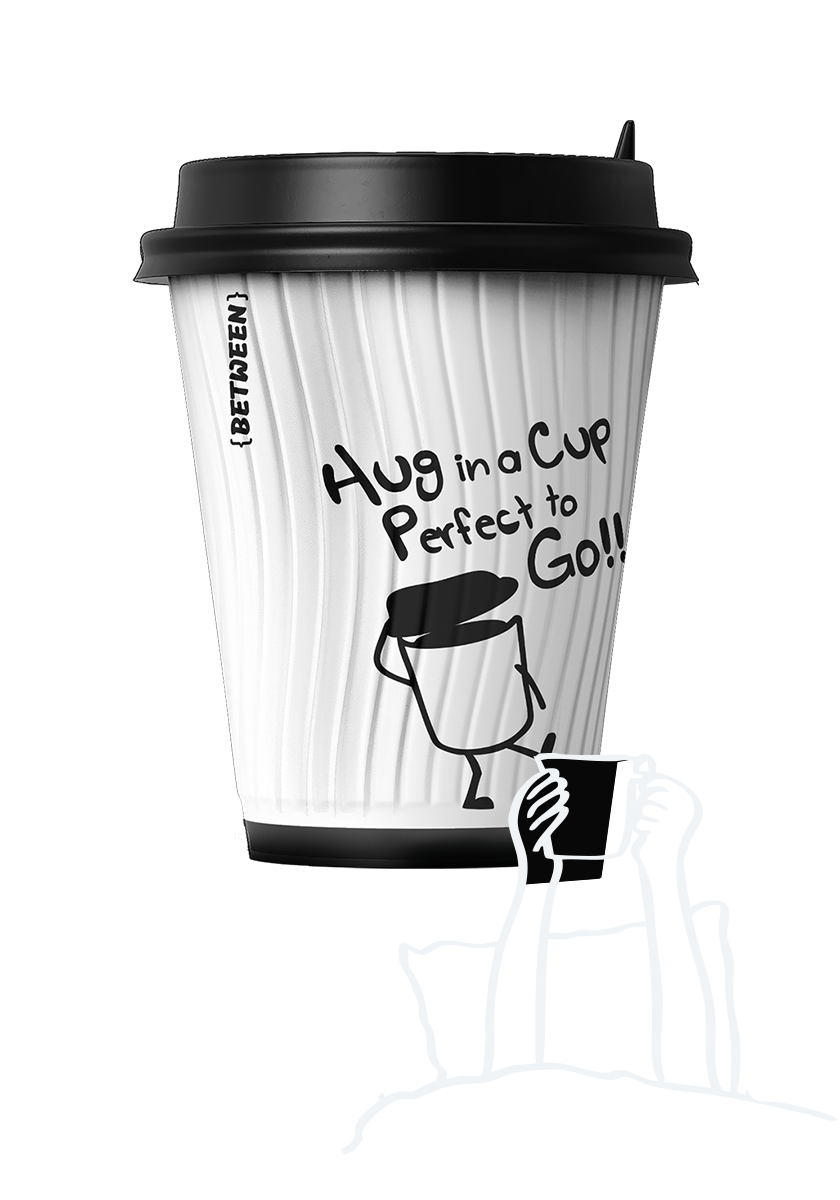
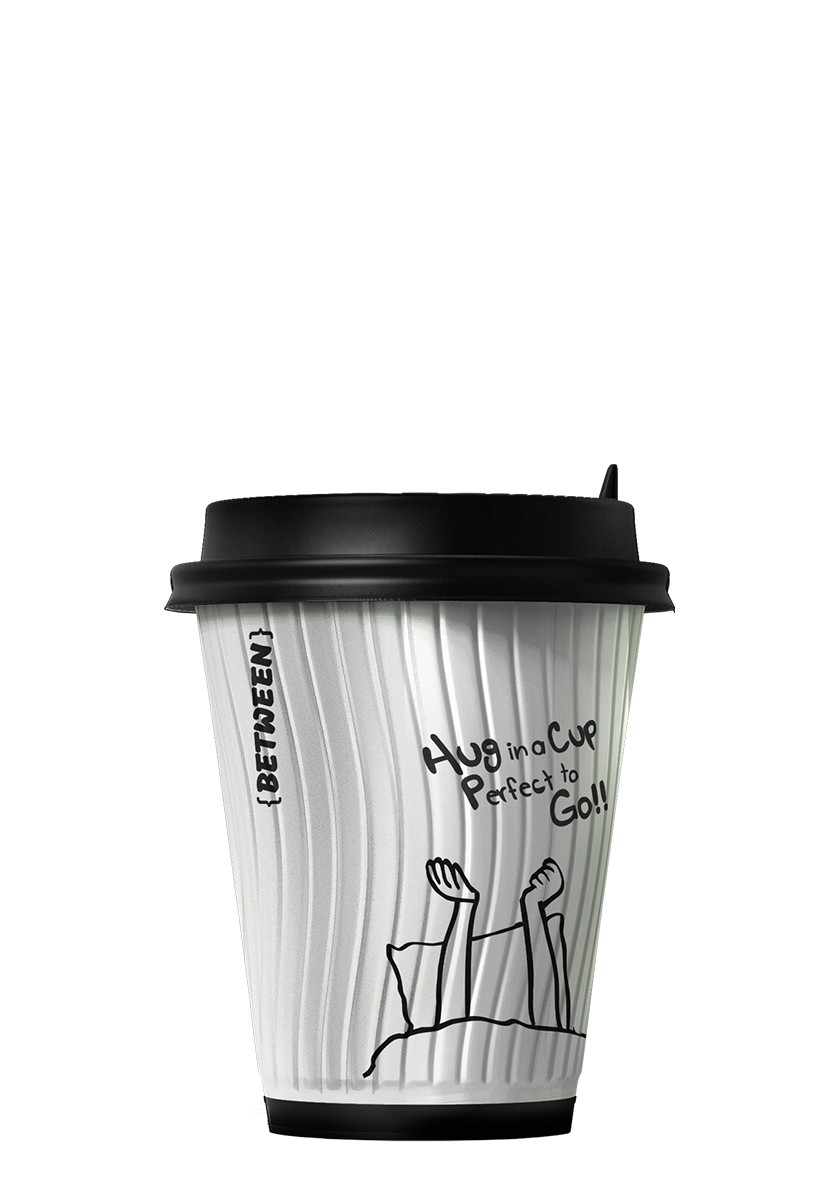
咖啡商品圖全面換新：詳情頁 8 款改 *_detail.png、首頁 hero 圓圈改 *_index.png（migration 0077）
使用者指示：① 詳情頁（coffee.html，依商品 id）改用 *_detail.png；② 首頁 index 的 7 張商品圖依指定排序改用 *_index.png（Black Blend → Butter King → 果香浅煎 → 抹茉 → Flat White → Sunshine → WakeMeUp，與現行 sort_order 1~7 完全一致，故不動 sort_order）。

- 詳情頁 CoffeeItem.image 8 筆：#1 wakemeup／#2 sunshine／#3 flatwhite／#4 blackblend／#7 nicestep／#8 matchamix（抹茉）／#9 friuty（果香浅煎）／#10 butterking
- 首頁 CoffeeItem.image_index 6 筆：blackblend／friuty／matchamix／flatwhite／sunshine／wakemeup（皆為首頁 hero 手套圓圈用；coffee.html 用 get_detail_image 讀 image，index.html 用 get_index_image 讀 image_index → 皆 DB 驅動、不動模板）
- 已知缺口：butterking_index.png 使用者未提供 → #10 維持 image_index="" → get_index_image() fallback 到 butterking_detail.png（migration 內留 TODO_INDEX）；nicestep_index.png 有提供但 #7 為 sort_order 8、不在首頁 7 格內故未設定
- 新圖放 media/coffee_images/ 扁平命名（*_detail.png 860×1100、*_index.png 840×1200），舊檔一律保留（既有訂單 items JSON 不 404）
- 驗證：migrate eshop OK、DB 複查符合、首頁 hero 7 張順序與尺寸正確且 0 破圖、/coffee/1|2|3|4|7|8|9|10/ 主圖逐一對應、15 個媒體檔 HTTP 200（butterking_index.png 404＝未提供）

diff --git a/eshop/migrations/0077_coffee_detail_images_and_hero_index_images.py b/eshop/migrations/0077_coffee_detail_images_and_hero_index_images.py
@@ -1,0 +1,126 @@
+"""咖啡商品圖全面換新：詳情頁 `image` + 首頁 hero 圓圈 `image_index`（2026-09-29）
+
+使用者指示（新圖來源 ~/Downloads/newimg/，2026-09-29 15:00）：
+
+1. 詳情頁（coffee.html，依商品 id）改用 `*_detail.png`：
+     #4 Black Blend  → coffee_images/blackblend_detail.png
+     #10 Butter King → coffee_images/butterking_detail.png
+     #3 Flat White   → coffee_images/flatwhite_detail.png
+     #9 果香浅煎      → coffee_images/friuty_detail.png
+     #8 抹茉          → coffee_images/matchamix_detail.png
+     #7 Nice Step    → coffee_images/nicestep_detail.png
+     #2 Sunshine     → coffee_images/sunshine_detail.png
+     #1 WakeMeUp     → coffee_images/wakemeup_detail.png
+
+2. 首頁 index.html 的 hero 手套圓圈（`hero_coffees` = is_published 依
+   `sort_order, id` 取前 7 筆 → .hero_hand_item 0~6，使用 get_index_image）
+   的 7 張商品圖改用 `*_index.png`，排序即使用者指定：
+     Black Blend(#4) → butterking(#10) → friuty(#9) → matchamix(#8)
+     → flatwhite(#3) → sunshine(#2) → wakemeup(#1)
+   （與目前 sort_order 1~7 完全一致，故不動 sort_order。）
+
+檔案尺寸：`*_detail.png` = 860×1100（詳情頁滿版照片）、`*_index.png` = 840×1200
+（首頁圓圈方圖），尺寸與既有同類圖一致。
+
+檔名慣例：新圖沿用使用者放置位置＝media/coffee_images/ 下的扁平命名
+（`<name>_detail.png` / `<name>_index.png`），與既有 `coffee_images/index/`
+（舊 v2/v4 圖）並存；舊檔一律保留（既有訂單 items JSON 仍指向舊檔名，不會 404）。
+
+**Butter King 首頁圖（#10 image_index）本次未設定**：`butterking_index.png`
+在使用者提供的 newimg/ 與整個專案內都不存在（只有 butterking_detail.png）。
+因此 #10 保持 image_index="" → `get_index_image()` 會自動 fallback 到剛更新的
+`image`＝coffee_images/butterking_detail.png（仍是新版畫風，僅比例略異）。
+待使用者補檔後另開一支 migration 補上即可（清單見下方 TODO_INDEX 註解）。
+
+範圍：`image`（詳情頁／購物車／訂單快照）＋ `image_index`（首頁／商品卡）。
+比對方式：先以 (pk, name) 精準比對，找不到再以 name 比對。
+可重入：值已是新值即跳過；若已被人為改成其他圖則不覆寫。
+"""
+
+from django.db import migrations
+
+# (pk, name, 原 image, 新 image)
+DETAIL_TARGETS = [
+    (4, "Black Blend", "coffee_images/coffee_02_1.png", "coffee_images/blackblend_detail.png"),
+    (10, "Butter King", "coffee_images/coffee_09.png", "coffee_images/butterking_detail.png"),
+    (9, "果香浅煎", "coffee_images/coffee_07_1_ywGMC7S.png", "coffee_images/friuty_detail.png"),
+    (8, "抹茉", "coffee_images/coffee_06_1_zlHhb48.png", "coffee_images/matchamix_detail.png"),
+    (3, "Flat White", "coffee_images/coffee_03_1.png", "coffee_images/flatwhite_detail.png"),
+    (2, "Sunshine", "coffee_images/coffee_08_B0g2qHs.png", "coffee_images/sunshine_detail.png"),
+    (1, "WakeMeup", "coffee_images/coffee_01_2.png", "coffee_images/wakemeup_detail.png"),
+    (7, "Nice Step", "coffee_images/coffee_05_1_bcHDwCS.png", "coffee_images/nicestep_detail.png"),
+]
+
+# (pk, name, 原 image_index, 新 image_index)  ← 首頁 hero 圓圈 7 格（缺 #10，見 docstring）
+INDEX_TARGETS = [
+    (4, "Black Blend", "coffee_images/index/black_blend_v4.png", "coffee_images/blackblend_index.png"),
+    (9, "果香浅煎", "coffee_images/index/friuty.png", "coffee_images/friuty_index.png"),
+    (8, "抹茉", "", "coffee_images/matchamix_index.png"),
+    (3, "Flat White", "coffee_images/index/flat_white_4.png", "coffee_images/flatwhite_index.png"),
+    (2, "Sunshine", "coffee_images/index/sunshine_v2.png", "coffee_images/sunshine_index.png"),
+    (1, "WakeMeup", "coffee_images/index/wakemeup_v2_2.png", "coffee_images/wakemeup_index.png"),
+]
+
+# TODO_INDEX：待 butterking_index.png 補上後新增 migration 套用
+#   (10, "Butter King", "", "coffee_images/butterking_index.png")
+# 另：nicestep_index.png 亦已提供，但 #7 Nice Step 為 sort_order 8（不在首頁 7 格內），
+#      使用者未列入，故不動其 image_index（商品卡目前 fallback 到 image）。
+
+
+def _find(CoffeeItem, pk, name):
+    return CoffeeItem.objects.filter(pk=pk, name=name).first() or CoffeeItem.objects.filter(
+        name=name
+    ).first()
+
+
+def _current(item, field_name):
+    """目前欄位的路徑字串（ImageFieldFile → .name；空值 → ""）"""
+    field = getattr(item, field_name)
+    return (getattr(field, "name", "") or "") if field else ""
+
+
+def _apply(apps, field_name, targets):
+    CoffeeItem = apps.get_model("eshop", "CoffeeItem")
+    for pk, name, old, new in targets:
+        item = _find(CoffeeItem, pk, name)
+        if not item:
+            continue
+        current = _current(item, field_name)
+        if current == new:
+            continue  # 已套用（可重入）
+        if current not in ("", old):
+            continue  # 已被改成其他圖 → 不覆寫
+        setattr(item, field_name, new)
+        item.save(update_fields=[field_name])
+
+
+def _restore(apps, field_name, targets):
+    CoffeeItem = apps.get_model("eshop", "CoffeeItem")
+    for pk, name, old, new in targets:
+        item = _find(CoffeeItem, pk, name)
+        if not item:
+            continue
+        if _current(item, field_name) == new:
+            setattr(item, field_name, old)
+            item.save(update_fields=[field_name])
+
+
+def update_images(apps, schema_editor):
+    _apply(apps, "image", DETAIL_TARGETS)
+    _apply(apps, "image_index", INDEX_TARGETS)
+
+
+def restore_images(apps, schema_editor):
+    _restore(apps, "image_index", INDEX_TARGETS)
+    _restore(apps, "image", DETAIL_TARGETS)
+
+
+class Migration(migrations.Migration):
+
+    dependencies = [
+        ("eshop", "0076_coffee_detail_images_flatwhite_blackblend"),
+    ]
+
+    operations = [
+        migrations.RunPython(update_images, restore_images),
+    ]

diff --git a/betweencoffee_memory_bank/04_SYSTEM_STATE.md b/betweencoffee_memory_bank/04_SYSTEM_STATE.md
@@ -1,6 +1,6 @@
 # 系統狀態
 
-> **最後更新**: 2026年9月25日（追加 ⑬（2026-09-25，使用者指示）：**首頁 yama 圓球外圈新增 ORDER NOW 旋轉文字環（SVG textPath，白字、24s 自轉、外圈留間距）**——純前端、無 migration，細節見下方「近期變更」首筆與 `05_PRIORITY_TASKS.md`）／2026年9月24日（追加 ⑫（2026-09-24，使用者指示）：**首頁商品圖更名——`black_blend_4.png`→`black_blend_v4.png`／`coffee_07_1_ywGMC7S.png`→`friuty.png`／`shunshine_kFPsy3b.png`→`sunshine.png`（只改首頁 index 圖；data migration 0074，部署時自動套用）**，細節見下方「近期變更」首筆與 `05_PRIORITY_TASKS.md`）／2026年9月23日（追加 ⑪（2026-09-23，使用者三項）：**全域把第一主題色改為第二主題色（品牌金 #c49b63 → #FCFF4B）**／**yama 圓球亮球可讀性**／**浮動購物車初始跳動修正**——細節見下方「近期變更」首筆與 `05_PRIORITY_TASKS.md`；**註：其中「全域把第一主題色改為第二主題色」已於同日 revert 還原為品牌金**）／（2026-09-21 追加 ⑥：**咖啡／咖啡豆詳情頁選項按鈕字重——未選取 font-weight 300、已選取 400**——`static/css/bc-components.css`：`.bc-option-btn` 字重 500→**300**；`.bc-option-btn.active` 新增 **400**；**同日追加（使用者第二項）：hover 也 400**（`.bc-option-btn:hover` 加 `font-weight:400`，與選取態一致；`:hover` 與 `.active` 同特異度且值相同 → 無覆蓋衝突，hover 已選取鈕仍 400）。文字節點（純文字按鈕，如 bean 重量／研磨、coffee 的 bean_blend／strength_level）直接繼承 `.bc-option-btn`；`.bc-option-label-text`（僅設 font-size/line-height）不設字重故同樣繼承 → **只需改按鈕本體兩處**。`.bc-option-oz`（杯量右上角 oz 小標籤）維持既有 `font-weight:400`（含 `coffee.html` inline 的 `#option-group-cup_level .bc-option-oz{font-weight:400!important}`）**刻意不動**（屬獨立小標籤設計，未指定「跟隨選取狀態」）。選取狀態本來就是 `coffee.html`／`bean.html` 的 inline JS 切換 `.active`（**未動任何 JS/模板邏輯**）→ 字重自動跟隨；Noto Sans TC 300／400 皆已在 base.html 載入（不會有合成字重或 FOUT）。受影響頁面僅 `/coffee/<id>/`、`/bean/<id>/`（`.bc-option-btn` 全站只在這兩頁使用）。**同日追加（使用者第三項）：詳情頁「立即購買／加入購物車」(.btn.btn-primary) 高度與 .bc-option-btn 一致**——原本由 `style-bootstrap.css` 的 `.product-details button{height:54px!important}` 定為 54px（比選項按鈕 60px 矮 6px）→ `bc-components.css` 於 `.bc-product-action-btn` 之後新增 `@media all and (min-width:768px){ .product-details .btn.btn-primary{ height:60px!important; display:inline-flex; align-items:center; justify-content:center } }`（(0,3,0)!important 勝過 (0,1,1)!important；補 inline-flex 讓文字垂直置中，原本 display:block + padding 16px 會偏上）；**以 min-width:768 包住** → 行動端維持既有 36px 縮小版不被蓋掉（行動端本來就與選項按鈕同為 36px）。實測 1440／768：兩顆按鈕 54→**60px**（＝選項按鈕）、寬度與 top 不變（233.5／296.9px，僅往下長 6px）、quantity 列不受影響（仍 54px）；390：維持 36px（＝行動端選項按鈕 36px）；外部頁面未受影響（`/coffee_menu/`、`/bean_menu/` 的 `.btn.btn-primary`「落單」仍 45.2px 且均不在 `.product-details` 內，首頁 CTA 同）。**同日追加（使用者第四項）：Order 長條與個人圓鈕增加間距**——原本兩者外盒上下相接、間距 0 → 於 `bc-attract.css` 的 `.bc-attract-nav` 新增單一變數 `--bc-buy-profile-gap: 12px`，兩處共用：① `bc-attract-place.js` 定位時讀取（`prof top = buyTop + (hB+hP)/2 + gap`）；② 各斷點 `.bc-attract-profile` 的 CSS fallback `top: calc(50% + 100/92/77/66px + var(--bc-buy-profile-gap, 0px))`（JS 未執行時也一致）。實測 1440／1024／768／390（index 與 coffee/4 各一）：可見間距與外盒間距皆 **12px**、buy 與 profile 中心線仍同軸（`center_diff_px=0`）、頁間完全一致、浮動購物車 top 未受影響（56／32／28）；`docs/verify/cdp_verify_floating_cart.py` 5 斷點 × 5 頁 **25/25 全部通過**（含 `profile_below_bar`）；版號 bc-attract.css **?v=20260921d**、bc-attract-place.js **?v=20260921b**。⚠ 本次環境踩雷：CDP Chrome 需重啟，但 snap chromium 的 profile 固定為 `$HOME/snap/chromium/common/chromium`，使用者開著的 GUI chromium 佔住 SingletonLock → 第二個實例直接 abort；解法＝**換一個 HOME 啟動**（`HOME=/home/kei/.cache/bc-cdp-home /snap/bin/chromium --headless=new --remote-debugging-port=9222 …`）即可並存。**同日追加（使用者第五項：「手機端/平板端 整組三個一起向上移」）**——新增 `bc-attract.css` 的 `.bc-attract-nav{--bc-attract-lift:0px}`（桌面）＋ `@media screen and (max-width:991.98px){ .bc-attract-nav{--bc-attract-lift:8px} }`，由 `bc-attract-place.js` 新增的 `lift()` 在 `anchorTop()` 最後扣除（購物車／Order 長條／個人圓鈕皆由此基準推導 → **整組同步上移**，三者相對關係不變）；上移後仍以「weather 下緣 + WEATHER_GAP(8)」為下限（改寫成 floor 再套用 → about 頁不壓天氣）。實測：1440／1024 lift=0、fc.top 仍 56（**桌面完全不動**）；768 fc.top 32→**24**、390 28→**19**（＝brand 頂邊 − 8）；`/about/` 768→81、390→74（＝weather 下限，無讓位位移）；購物車↔長條間距維持 20px、長條↔圓鈕 12px 不變、未裁切（fc.top≥0）。`docs/verify/cdp_verify_floating_cart.py` 的期望值同步改為 `brand 頂邊 − --bc-attract-lift`（並保留 weather 下限邏輯）→ **25/25 全部通過**。版號 bc-attract.css **?v=20260921e**、bc-attract-place.js **?v=20260921c**。**同日追加（使用者第六項：「手機端 bc-attract-buy 與個人 profile 稍微向上移動、縮小浮動購物車間距」）**——兩者其實是同一件事：購物車位置不動（仍對齊 navbar-brand 頂邊），改為**縮小它與長條的間距** `--bc-fc-gap` 20px → `@media (max-width:767.98px){ .bc-floating-cart{ --bc-fc-gap:12px } }` → `buyTop = anchor + fcBox + fcGap + attract + hB/2` 少 8px → **長條與個人圓鈕同步上移 8px**；`≤575.98` 的退化 `--bc-fc-top` 同步換算（−112px → **−104px**；≤767.98 由 −120px → **−112px**）。實測：1440／768 gap 仍 **20px**（桌面＋平板不動）、`fc.top` 56／24；767／575／390 gap **12px**、`fc.top` 22／19／19（不變）、`bar.top` 78／75／75（較改前上移 8px）、`prof.top` 202／183／183，長條↔圓鈕維持 12px。harness 的間距斷言改為「期望值＝讀 CSS `--bc-fc-gap`」（不再寫死 20）→ **25/25 全部通過**。版號 bc-components.css **?v=20260921k**。驗證（CDP，`?fw=1`／`?hv=1` cache-buster）：`/coffee/4/` 的 bean_blend／cup_level／strength_level 與 `/bean/1/` 的 weight-group／grinding_level 共 5 組，**未選取按鈕 computed font-weight=300、`.active`=400**，`.bc-option-label-text` 繼承同值（300/400）、`.bc-option-oz` 維持 400；桌面 1440 實測截圖目視「選取態略粗」符合；**hover 態以 `Input.dispatchMouseEvent` 真實滑鼠移入逐組驗證（`/tmp/bc_option_hover_check.py`）：未選取 300／hover 400（含 label 繼承）／已選取 400／hover 已選取仍 400／移開回 300／同組未被 hover 者維持 300 → 40 項斷言 ALL PASS**。⚠ 本次踩雷：restart dev server 的長鏈指令被工具 30s timeout 砍掉並連帶殺掉 `nohup` 子行程 → 之後一律用 `setsid nohup ... < /dev/null &` 獨立啟動）。上次：追加 ⑤（同日，使用者一項）：**手機／平板 bc-attract-buy 與個人圓鈕放大一點，桌面不動**——`bc-attract.css` 檔末斷點區塊：平板（768–991.98）buy 34×116→**40×136**、profile 40→**48**、icon 0.95→1.1rem、Order 0.78→0.88rem；≤767 buy 28×92→**34×112**、profile 34→**42**、icon 0.9→1.05rem；≤575 buy 24×78→**30×96**、profile 30→**36**、icon 0.8→0.95rem；`--attract` 12/8/8 → 14/10/10；**水平軸心一律不變**（寬度變大 → `right` 同步換算：平板 buy 29→26／profile 26→22、≤767 15→12／12→8、≤575 13→10／10→7），垂直仍由 `bc-attract-place.js` 依實測高度堆疊（fallback top 依新高度更新為 calc(50%−92/77/66px)）；**桌面 ≥992 完全不動**（40×150、profile 50×50）。另因 buy 尺寸變動，`bc-components.css` 浮動鈕退化值同步換算：`--bc-fc-right` 36→38（平板）／15→17（≤767）／11→13（≤575），依實測「可見長條軸心 60／39／35 − 44/2」，退化 top 依新高度 136／112／96 重算為 calc(50%−132/120/112px)。驗證 `docs/verify/cdp_verify_floating_cart.py` **25 組全部通過**（新增尺寸斷言：buy 外盒 40×150／40×136／30×96、profile 50／48／36 → 同時鎖住「桌面不動」；量測改用外盒 `buy_box`，因 `.bc-attract-buy__link` 受 `.c-attract` 的 `--attract` padding 影響會比外盒寬）；實測 768 buy 40×136／profile 48×48、390 buy 30×96／profile 36×36、1440・1024 維持 40×150／50×50；版號 bc-attract.css **?v=20260921c**、bc-components.css **?v=20260921g**。上次：追加 ④（全站隱藏右上角漢堡＋Buy/profile 全端與 index 相同）：① **全站隱藏 navbar 右上角漢堡選單**——`bc-attract.css` 加 `#ftco-navbar .navbar-toggler{display:none!important}`（原因：右側空間已由「浮動購物車→Order→個人圓鈕」整組佔用，行動端實測購物袋與漢堡重疊且購物袋在上層會擋住點擊；`#navbarNav` 內只有一個 `d-lg-none` 行動端購物車連結＝與浮動購物車重複，故無功能損失；桌機 ≥992px Bootstrap 原本就 display:none）；② **全端 `bc-attract-buy`／`bc-attract-profile` 與 index 相同**——移除 4 個模板（coffee.html／bean.html／coffee_menu.html／bean_menu.html）自 2026-08-14 起的 `.bc-attract-nav{display:none!important}` 覆寫，改由 `static/js/bc-attract-place.js` 全站定位（實測 coffee_menu 等頁與 index 逐像素相同：行動端 buy 24×78@y100、profile 30×30@y178；`templates/admin/staff_order_management.html` 仍維持隱藏——員工管理介面且同時隱藏浮動購物車）。驗證 `docs/verify/cdp_verify_floating_cart.py` **5 斷點 × 5 頁＝25 組全部通過**（新增：漢堡全站隱藏（`.navbar-toggler` display=none／`.bc-attract-menu` 寬 0）、`buy_visible`／`profile_visible`、個人圓鈕在 Order 長條下方）；版號 bc-attract.css **?v=20260921b**；⚠ 改模板後**開發伺服器必須重啟**（本次再度遇到舊模板）。上次：追加 ③（weather 僅 about＋浮動購物車全站與 index 同位置）：① **`.weather` 全站隱藏、僅 about 頁顯示**——`bc-weather.css` 加 `#ftco-navbar .weather { visibility: hidden }`（用 visibility 不是 display → 保留 navbar 排版空間、navbar 不位移）＋ `.weather--visible` 修飾子；`nav.html` 依 `{% if request.resolver_match.url_name == 'about' %}` 加該 class；`base.html` 的 `bc-weather.js` 也只在 about 載入（其他頁不再發 OpenWeatherMap 請求）；移除 index.html 原本的 `#ftco-navbar .weather{visibility:hidden!important}`。② **浮動購物車「所有模板位置和 index 一樣」**——新增 `static/js/bc-attract-place.js`（把原本只寫在 index.html 的 inline `place()` 抽成全站共用：所有頁面「購物袋 → Order 長條 → 個人圓鈕」都對齊 navbar-brand 頂邊）；`bc-attract.css` 新增 `html.bc-attract-pending .bc-attract-nav{visibility:hidden}` 搭配 base.html `<head>` 的 inline script（加 class ＋ 1.2s 保險自動顯示）；`bc-slideout-cart.js` 的 `_placeFloatingCart()` 在 Buy 不可見（coffee/bean 詳情與選單、付款頁等 `.bc-attract-nav{display:none!important}`）時，改為「浮動鈕盒上緣對齊 navbar-brand 頂邊」（原為退回 CSS 垂直置中退化值）；index.html 移除 inline 腳本與兩條舊覆寫。⚠ **兩項一起生效的衝突**：about 頁 weather 可見（navbar 右上、與 Order 同軸線）× 購物袋也移到 navbar 高度 → 兩者重疊（實測圖示被天氣/日期蓋住）→ 解法：`anchorTop()` 在 weather `visibility:visible` 時把基準下移到 `weather.bottom + 8px`（`WEATHER_GAP`），about 頁堆疊變成 weather → 購物袋 → Order → 個人圓鈕；其他頁 weather 隱藏故不受影響。驗證 `docs/verify/cdp_verify_floating_cart.py` 擴充為 **5 斷點 × 5 頁（新增 /about/）= 25 組全部通過**，新增檢查：weather 顯示範圍（about：visible＋有 `.weather--visible`＋有載 bc-weather.js／其餘：hidden＋無 class＋無 script）、浮動鈕對齊「預期基準」（brand 頂邊，weather 可見時為 weather 下緣+8）、跨頁位置一致（weather 隱藏頁）、不遮 navbar logo／漢堡仍可點擊、`.bc-attract-pending` 已移除。實測 1440：index/about/coffee4/bean1/coffee_menu 的浮動鈕皆 **y=56＝brand 頂邊**（about 為 118＝weather 讓位後）；版號 bc-attract.css／bc-weather.css／bc-attract-place.js **?v=20260921a**、bc-slideout-cart.js **?v=20260921g**。⚠ **踩雷**：**開發伺服器（`manage.py runserver --noreload`）會服務「舊模板」**——改 template 後必須重啟，否則 curl／CDP 會拿到舊 HTML（本次一度以為 `{% if %}` 沒生效，實為舊 process 回應舊模板；用 Django shell 直接 render 則是新的）；上次：**浮動購物車改版（只留圖示＋定位到 Buy 按鈕正上方）**——使用者三項指示：① 隱藏首頁 `bc-yama` 內「購物車 [ n ]」列（`bc-yama-header.css` 一條 `.bc-yama .header-bot{display:none!important}`，markup/JS 保留可逆；黃圓 `tax-nav` 位置不受影響）；② 浮動購物車全站改貼 `.bc-attract-buy` **正上方、中心線對齊、直徑同按鈕寬**（`bc-components.css` 改純圖示＋`bc-slideout-cart.js` 新增 `_placeFloatingCart()` 量測可見長條後寫 CSS 變數 `--bc-fc-*`；right 基準用 `clientWidth` 修正捲軸寬偏差＋量測後自我修正一次；z-index 提到 **100000** 以免被 Buy 按鈕的 `.c-attract` 熱區 `<a>` 蓋住）；③ 只顯示購物袋圖示（無圓形底／無邊框／無陰影），尺寸 **桌機 37／平板 34／手機 31px**（另設 44px 透明點擊區下限；2026-09-21 使用者追加「圖示縮小一點」）；**同日追加 ②（使用者三項，2026-09-21）**：空車也**常駐顯示圖示、只隱藏數字圓圈**（`base.html` 移除 wrapper 的 `display:none` ＋ JS `_showFloatingCart`/`_updateFloatingCartVisibility` 不再空車早退、`_updateBadge` 控制浮動鈕 badge display）＋ 圖示**再縮**（第三次指示 **−15% → 37／34／31px**）＋ 與 `.bc-attract-buy` **增加間距**（新變數 `--bc-fc-gap`：**0 → 12px → 20px**，JS 定位與首頁 `place()` 共用），圖示 5 選項＝`shopping_bag`（目前）／`local_mall`／`shopping_basket`／`work`／`backpack`，預覽頁 `static/preview/bc-floating-cart-icons.html`；⚠ 首頁亦維持正上方 → `index.html` 的 `place()` 同日追加讓位（`buyTop = anchor + max(44, --bc-fc-size) + --attract + hB/2`，改讓「購物袋 top」對齊 navbar-brand 頂邊；首頁堆疊＝購物袋→Order→個人圓鈕）；⚠ Material Symbols `tote`／`grocery` 在本專案字型變體不存在（會退回文字）故不採用；驗證 `docs/verify/cdp_verify_floating_cart.py`（5 斷點 × 4 頁，含缺字偵測）**全部通過**＋CDP 截圖目視；版號 bc-components.css／bc-slideout-cart.js／bc-yama-header.css **?v=20260921f****同日追加（使用者第七項：新增「第二主題色」＋套用三處＋yama 圓球改色）**——① **新增 CSS 變數**：`static/css/bc-components.css` 的 `:root` 新增 `--bc-theme2-rgb: 226 252 7` 與 `--bc-theme2: rgb(226 252 7)`（＝#E2FC07，單一定義、bc-components.css 全站載入；需透明度時用 `rgb(var(--bc-theme2-rgb) / α)`）。② **hero_nav 正常狀態圓點**：`bc-gunte-hero.css` 的 `.hero_nav > li > button::before` 背景 `#c49b63` → `var(--bc-theme2)`（選取中 / hover / active 的白色與寬度 32px 維持不動）。③ **浮動購物車數字圓圈**：`bc-components.css` 的 `.bc-floating-cart-badge` 背景 `var(--bc-gold)` → `var(--bc-theme2)`，**文字 `#fff` → `var(--bc-bg)`（#0e0e0e 深色；亮底配深字才可讀）**。④ **yama 圓球（使用者回答選「圓球底色改主題色」）**：`bc-yama-header.css` 的 `--bc-yama-circle` `#131211` → `var(--bc-theme2)`；主行文字（按照之前口味落單?／登入補充咖啡因!）`#ba833a` → **`#fff` 白**；積分 `-5`（`.bc-yama-discount`）`var(--bc-gold)` → **`var(--bc-theme2)`**。版號 bc-components.css **?v=20260921l**、bc-gunte-hero.css **?v=20260921a**、bc-yama-header.css **?v=20260921d**。CDP 實測 1440：hero_nav 7 顆圓點＝6 顆正常 `rgb(226,252,7)`＋選取中白 32px；badge 背景 `rgb(226,252,7)`、文字 `rgb(14,14,14)`；yama 圓球底 `rgb(226,252,7)`、主行白、`.bc-yama-discount` `rgb(226,252,7)`（截圖 /tmp/yama-lime-login.png、/tmp/theme2-navdots.png、/tmp/theme2-badge.png）。⚠ **待使用者定案的可讀性衝突**：圓球改亮色後，球內白字（1.16:1）、`#bfbfbf` tagline、白色杯子裝飾在 `rgb(226,252,7)` 上對比嚴重不足，且 `-5`（主題色）與球底同色而完全不可見（深色字 #0e0e0e 對比 16.69:1）→ 建議球內文字／裝飾改深色，或球底維持深色、只把點綴改主題色。**同日追加（使用者第八項：「桌面端 bc-attract-buy、個人 profile、浮動購物車 3 組一起稍微向上移動」）**——把原本只給手機/平板的 8px 上移**擴及桌面**：`static/css/bc-attract.css` 的 `.bc-attract-nav` 的 `--bc-attract-lift` **`0px` → `8px`（全斷點同值）**，原 `@media (max-width:991.98px){--bc-attract-lift:8px}` 已同值故移除（單一來源＝一行；日後要再調高度只改這行）。機制不變：`bc-attract-place.js` 的 `lift()` 讀同一變數、`anchorTop()` 最後扣除 → Order 長條／個人圓鈕同步平移；`bc-slideout-cart.js` 的浮動購物車以「可見長條 top − 佔位 − `--bc-fc-gap`」推導 → 自動跟著上移；三者相對間距（購物車↔長條 20px、長條↔圓鈕 12px）完全不變。無 JS 的退化 `--bc-fc-top`（50% 置中幾何）與桌面 0 值無關，未動。CDP 實測：1440／1024 `lift` 0→**8px**、`fc.top` 56→**48**、`bar.top` 120→**112**、`prof.top` 306→**298**（index／coffee4／bean1／coffee_menu 頁間完全一致）；`/about/` 桌面仍受 weather 下限保護（1440 → **118 不變**，未被上移吃掉）；768／390／320（原本就 8px）**數值完全不變**（24／19）；未遮 navbar-brand（`overlaps_brand=false`）、無橫向溢出（doc_x 1425 < 1440）、`fc.top=48 ≥ 8` 未裁切。harness `docs/verify/cdp_verify_floating_cart.py`（期望值動態讀 `--bc-attract-lift`）**25/25 全部通過**；截圖 /tmp/desktop-lift.png（1440 右上角整組）。版號 bc-attract.css **?v=20260921f**、bc-attract-place.js **?v=20260921d**（後者僅註解同步，行為未動）。；上次：**咖啡豆自訂選項組（BeanItem 選項組）**——BeanItem 的「產地＋研磨」納入與咖啡**同一套**選項組機制（Admin 勾選啟用＋排序數字、詳情頁依排序渲染、extra_options→購物車/訂單/員工端）；**使用者定案「產地不是讓客人選」**：產地＝唯讀顯示（沿用原有 block-23 排版、不新增 UI、不送值）、研磨＝客人可選（沿用既有 `grinding_level` 欄位，舊訂單零相容成本）、烘焙度退出選項組；migration **0071**（schema）＋**0072**（產地自由文字→代碼）＋**0073**（移除未用欄位）；驗證 `docs/verify/verify_bean_group_order.py` **50/50**；修正 Django `{# #}` 不能跨行）
+> **最後更新**: 2026年9月29日（追加 ⑭（2026-09-29，使用者指示）：**咖啡商品圖全面換新——詳情頁（coffee.html 依 id）改用 `*_detail.png`（8 款）＋首頁 hero 手套圓圈改用 `*_index.png`（依指定排序，7 格；data migration **0077**）**；`butterking_index.png` 使用者未提供 → #10 Butter King 首頁圖維持 `image` fallback，細節見下方「近期變更」首筆與 `05_PRIORITY_TASKS.md`）／2026年9月25日（追加 ⑬（2026-09-25，使用者指示）：**首頁 yama 圓球外圈新增 ORDER NOW 旋轉文字環（SVG textPath，白字、24s 自轉、外圈留間距）**——純前端、無 migration，細節見下方「近期變更」首筆與 `05_PRIORITY_TASKS.md`）／2026年9月24日（追加 ⑫（2026-09-24，使用者指示）：**首頁商品圖更名——`black_blend_4.png`→`black_blend_v4.png`／`coffee_07_1_ywGMC7S.png`→`friuty.png`／`shunshine_kFPsy3b.png`→`sunshine.png`（只改首頁 index 圖；data migration 0074，部署時自動套用）**，細節見下方「近期變更」首筆與 `05_PRIORITY_TASKS.md`）／2026年9月23日（追加 ⑪（2026-09-23，使用者三項）：**全域把第一主題色改為第二主題色（品牌金 #c49b63 → #FCFF4B）**／**yama 圓球亮球可讀性**／**浮動購物車初始跳動修正**——細節見下方「近期變更」首筆與 `05_PRIORITY_TASKS.md`；**註：其中「全域把第一主題色改為第二主題色」已於同日 revert 還原為品牌金**）／（2026-09-21 追加 ⑥：**咖啡／咖啡豆詳情頁選項按鈕字重——未選取 font-weight 300、已選取 400**——`static/css/bc-components.css`：`.bc-option-btn` 字重 500→**300**；`.bc-option-btn.active` 新增 **400**；**同日追加（使用者第二項）：hover 也 400**（`.bc-option-btn:hover` 加 `font-weight:400`，與選取態一致；`:hover` 與 `.active` 同特異度且值相同 → 無覆蓋衝突，hover 已選取鈕仍 400）。文字節點（純文字按鈕，如 bean 重量／研磨、coffee 的 bean_blend／strength_level）直接繼承 `.bc-option-btn`；`.bc-option-label-text`（僅設 font-size/line-height）不設字重故同樣繼承 → **只需改按鈕本體兩處**。`.bc-option-oz`（杯量右上角 oz 小標籤）維持既有 `font-weight:400`（含 `coffee.html` inline 的 `#option-group-cup_level .bc-option-oz{font-weight:400!important}`）**刻意不動**（屬獨立小標籤設計，未指定「跟隨選取狀態」）。選取狀態本來就是 `coffee.html`／`bean.html` 的 inline JS 切換 `.active`（**未動任何 JS/模板邏輯**）→ 字重自動跟隨；Noto Sans TC 300／400 皆已在 base.html 載入（不會有合成字重或 FOUT）。受影響頁面僅 `/coffee/<id>/`、`/bean/<id>/`（`.bc-option-btn` 全站只在這兩頁使用）。**同日追加（使用者第三項）：詳情頁「立即購買／加入購物車」(.btn.btn-primary) 高度與 .bc-option-btn 一致**——原本由 `style-bootstrap.css` 的 `.product-details button{height:54px!important}` 定為 54px（比選項按鈕 60px 矮 6px）→ `bc-components.css` 於 `.bc-product-action-btn` 之後新增 `@media all and (min-width:768px){ .product-details .btn.btn-primary{ height:60px!important; display:inline-flex; align-items:center; justify-content:center } }`（(0,3,0)!important 勝過 (0,1,1)!important；補 inline-flex 讓文字垂直置中，原本 display:block + padding 16px 會偏上）；**以 min-width:768 包住** → 行動端維持既有 36px 縮小版不被蓋掉（行動端本來就與選項按鈕同為 36px）。實測 1440／768：兩顆按鈕 54→**60px**（＝選項按鈕）、寬度與 top 不變（233.5／296.9px，僅往下長 6px）、quantity 列不受影響（仍 54px）；390：維持 36px（＝行動端選項按鈕 36px）；外部頁面未受影響（`/coffee_menu/`、`/bean_menu/` 的 `.btn.btn-primary`「落單」仍 45.2px 且均不在 `.product-details` 內，首頁 CTA 同）。**同日追加（使用者第四項）：Order 長條與個人圓鈕增加間距**——原本兩者外盒上下相接、間距 0 → 於 `bc-attract.css` 的 `.bc-attract-nav` 新增單一變數 `--bc-buy-profile-gap: 12px`，兩處共用：① `bc-attract-place.js` 定位時讀取（`prof top = buyTop + (hB+hP)/2 + gap`）；② 各斷點 `.bc-attract-profile` 的 CSS fallback `top: calc(50% + 100/92/77/66px + var(--bc-buy-profile-gap, 0px))`（JS 未執行時也一致）。實測 1440／1024／768／390（index 與 coffee/4 各一）：可見間距與外盒間距皆 **12px**、buy 與 profile 中心線仍同軸（`center_diff_px=0`）、頁間完全一致、浮動購物車 top 未受影響（56／32／28）；`docs/verify/cdp_verify_floating_cart.py` 5 斷點 × 5 頁 **25/25 全部通過**（含 `profile_below_bar`）；版號 bc-attract.css **?v=20260921d**、bc-attract-place.js **?v=20260921b**。⚠ 本次環境踩雷：CDP Chrome 需重啟，但 snap chromium 的 profile 固定為 `$HOME/snap/chromium/common/chromium`，使用者開著的 GUI chromium 佔住 SingletonLock → 第二個實例直接 abort；解法＝**換一個 HOME 啟動**（`HOME=/home/kei/.cache/bc-cdp-home /snap/bin/chromium --headless=new --remote-debugging-port=9222 …`）即可並存。**同日追加（使用者第五項：「手機端/平板端 整組三個一起向上移」）**——新增 `bc-attract.css` 的 `.bc-attract-nav{--bc-attract-lift:0px}`（桌面）＋ `@media screen and (max-width:991.98px){ .bc-attract-nav{--bc-attract-lift:8px} }`，由 `bc-attract-place.js` 新增的 `lift()` 在 `anchorTop()` 最後扣除（購物車／Order 長條／個人圓鈕皆由此基準推導 → **整組同步上移**，三者相對關係不變）；上移後仍以「weather 下緣 + WEATHER_GAP(8)」為下限（改寫成 floor 再套用 → about 頁不壓天氣）。實測：1440／1024 lift=0、fc.top 仍 56（**桌面完全不動**）；768 fc.top 32→**24**、390 28→**19**（＝brand 頂邊 − 8）；`/about/` 768→81、390→74（＝weather 下限，無讓位位移）；購物車↔長條間距維持 20px、長條↔圓鈕 12px 不變、未裁切（fc.top≥0）。`docs/verify/cdp_verify_floating_cart.py` 的期望值同步改為 `brand 頂邊 − --bc-attract-lift`（並保留 weather 下限邏輯）→ **25/25 全部通過**。版號 bc-attract.css **?v=20260921e**、bc-attract-place.js **?v=20260921c**。**同日追加（使用者第六項：「手機端 bc-attract-buy 與個人 profile 稍微向上移動、縮小浮動購物車間距」）**——兩者其實是同一件事：購物車位置不動（仍對齊 navbar-brand 頂邊），改為**縮小它與長條的間距** `--bc-fc-gap` 20px → `@media (max-width:767.98px){ .bc-floating-cart{ --bc-fc-gap:12px } }` → `buyTop = anchor + fcBox + fcGap + attract + hB/2` 少 8px → **長條與個人圓鈕同步上移 8px**；`≤575.98` 的退化 `--bc-fc-top` 同步換算（−112px → **−104px**；≤767.98 由 −120px → **−112px**）。實測：1440／768 gap 仍 **20px**（桌面＋平板不動）、`fc.top` 56／24；767／575／390 gap **12px**、`fc.top` 22／19／19（不變）、`bar.top` 78／75／75（較改前上移 8px）、`prof.top` 202／183／183，長條↔圓鈕維持 12px。harness 的間距斷言改為「期望值＝讀 CSS `--bc-fc-gap`」（不再寫死 20）→ **25/25 全部通過**。版號 bc-components.css **?v=20260921k**。驗證（CDP，`?fw=1`／`?hv=1` cache-buster）：`/coffee/4/` 的 bean_blend／cup_level／strength_level 與 `/bean/1/` 的 weight-group／grinding_level 共 5 組，**未選取按鈕 computed font-weight=300、`.active`=400**，`.bc-option-label-text` 繼承同值（300/400）、`.bc-option-oz` 維持 400；桌面 1440 實測截圖目視「選取態略粗」符合；**hover 態以 `Input.dispatchMouseEvent` 真實滑鼠移入逐組驗證（`/tmp/bc_option_hover_check.py`）：未選取 300／hover 400（含 label 繼承）／已選取 400／hover 已選取仍 400／移開回 300／同組未被 hover 者維持 300 → 40 項斷言 ALL PASS**。⚠ 本次踩雷：restart dev server 的長鏈指令被工具 30s timeout 砍掉並連帶殺掉 `nohup` 子行程 → 之後一律用 `setsid nohup ... < /dev/null &` 獨立啟動）。上次：追加 ⑤（同日，使用者一項）：**手機／平板 bc-attract-buy 與個人圓鈕放大一點，桌面不動**——`bc-attract.css` 檔末斷點區塊：平板（768–991.98）buy 34×116→**40×136**、profile 40→**48**、icon 0.95→1.1rem、Order 0.78→0.88rem；≤767 buy 28×92→**34×112**、profile 34→**42**、icon 0.9→1.05rem；≤575 buy 24×78→**30×96**、profile 30→**36**、icon 0.8→0.95rem；`--attract` 12/8/8 → 14/10/10；**水平軸心一律不變**（寬度變大 → `right` 同步換算：平板 buy 29→26／profile 26→22、≤767 15→12／12→8、≤575 13→10／10→7），垂直仍由 `bc-attract-place.js` 依實測高度堆疊（fallback top 依新高度更新為 calc(50%−92/77/66px)）；**桌面 ≥992 完全不動**（40×150、profile 50×50）。另因 buy 尺寸變動，`bc-components.css` 浮動鈕退化值同步換算：`--bc-fc-right` 36→38（平板）／15→17（≤767）／11→13（≤575），依實測「可見長條軸心 60／39／35 − 44/2」，退化 top 依新高度 136／112／96 重算為 calc(50%−132/120/112px)。驗證 `docs/verify/cdp_verify_floating_cart.py` **25 組全部通過**（新增尺寸斷言：buy 外盒 40×150／40×136／30×96、profile 50／48／36 → 同時鎖住「桌面不動」；量測改用外盒 `buy_box`，因 `.bc-attract-buy__link` 受 `.c-attract` 的 `--attract` padding 影響會比外盒寬）；實測 768 buy 40×136／profile 48×48、390 buy 30×96／profile 36×36、1440・1024 維持 40×150／50×50；版號 bc-attract.css **?v=20260921c**、bc-components.css **?v=20260921g**。上次：追加 ④（全站隱藏右上角漢堡＋Buy/profile 全端與 index 相同）：① **全站隱藏 navbar 右上角漢堡選單**——`bc-attract.css` 加 `#ftco-navbar .navbar-toggler{display:none!important}`（原因：右側空間已由「浮動購物車→Order→個人圓鈕」整組佔用，行動端實測購物袋與漢堡重疊且購物袋在上層會擋住點擊；`#navbarNav` 內只有一個 `d-lg-none` 行動端購物車連結＝與浮動購物車重複，故無功能損失；桌機 ≥992px Bootstrap 原本就 display:none）；② **全端 `bc-attract-buy`／`bc-attract-profile` 與 index 相同**——移除 4 個模板（coffee.html／bean.html／coffee_menu.html／bean_menu.html）自 2026-08-14 起的 `.bc-attract-nav{display:none!important}` 覆寫，改由 `static/js/bc-attract-place.js` 全站定位（實測 coffee_menu 等頁與 index 逐像素相同：行動端 buy 24×78@y100、profile 30×30@y178；`templates/admin/staff_order_management.html` 仍維持隱藏——員工管理介面且同時隱藏浮動購物車）。驗證 `docs/verify/cdp_verify_floating_cart.py` **5 斷點 × 5 頁＝25 組全部通過**（新增：漢堡全站隱藏（`.navbar-toggler` display=none／`.bc-attract-menu` 寬 0）、`buy_visible`／`profile_visible`、個人圓鈕在 Order 長條下方）；版號 bc-attract.css **?v=20260921b**；⚠ 改模板後**開發伺服器必須重啟**（本次再度遇到舊模板）。上次：追加 ③（weather 僅 about＋浮動購物車全站與 index 同位置）：① **`.weather` 全站隱藏、僅 about 頁顯示**——`bc-weather.css` 加 `#ftco-navbar .weather { visibility: hidden }`（用 visibility 不是 display → 保留 navbar 排版空間、navbar 不位移）＋ `.weather--visible` 修飾子；`nav.html` 依 `{% if request.resolver_match.url_name == 'about' %}` 加該 class；`base.html` 的 `bc-weather.js` 也只在 about 載入（其他頁不再發 OpenWeatherMap 請求）；移除 index.html 原本的 `#ftco-navbar .weather{visibility:hidden!important}`。② **浮動購物車「所有模板位置和 index 一樣」**——新增 `static/js/bc-attract-place.js`（把原本只寫在 index.html 的 inline `place()` 抽成全站共用：所有頁面「購物袋 → Order 長條 → 個人圓鈕」都對齊 navbar-brand 頂邊）；`bc-attract.css` 新增 `html.bc-attract-pending .bc-attract-nav{visibility:hidden}` 搭配 base.html `<head>` 的 inline script（加 class ＋ 1.2s 保險自動顯示）；`bc-slideout-cart.js` 的 `_placeFloatingCart()` 在 Buy 不可見（coffee/bean 詳情與選單、付款頁等 `.bc-attract-nav{display:none!important}`）時，改為「浮動鈕盒上緣對齊 navbar-brand 頂邊」（原為退回 CSS 垂直置中退化值）；index.html 移除 inline 腳本與兩條舊覆寫。⚠ **兩項一起生效的衝突**：about 頁 weather 可見（navbar 右上、與 Order 同軸線）× 購物袋也移到 navbar 高度 → 兩者重疊（實測圖示被天氣/日期蓋住）→ 解法：`anchorTop()` 在 weather `visibility:visible` 時把基準下移到 `weather.bottom + 8px`（`WEATHER_GAP`），about 頁堆疊變成 weather → 購物袋 → Order → 個人圓鈕；其他頁 weather 隱藏故不受影響。驗證 `docs/verify/cdp_verify_floating_cart.py` 擴充為 **5 斷點 × 5 頁（新增 /about/）= 25 組全部通過**，新增檢查：weather 顯示範圍（about：visible＋有 `.weather--visible`＋有載 bc-weather.js／其餘：hidden＋無 class＋無 script）、浮動鈕對齊「預期基準」（brand 頂邊，weather 可見時為 weather 下緣+8）、跨頁位置一致（weather 隱藏頁）、不遮 navbar logo／漢堡仍可點擊、`.bc-attract-pending` 已移除。實測 1440：index/about/coffee4/bean1/coffee_menu 的浮動鈕皆 **y=56＝brand 頂邊**（about 為 118＝weather 讓位後）；版號 bc-attract.css／bc-weather.css／bc-attract-place.js **?v=20260921a**、bc-slideout-cart.js **?v=20260921g**。⚠ **踩雷**：**開發伺服器（`manage.py runserver --noreload`）會服務「舊模板」**——改 template 後必須重啟，否則 curl／CDP 會拿到舊 HTML（本次一度以為 `{% if %}` 沒生效，實為舊 process 回應舊模板；用 Django shell 直接 render 則是新的）；上次：**浮動購物車改版（只留圖示＋定位到 Buy 按鈕正上方）**——使用者三項指示：① 隱藏首頁 `bc-yama` 內「購物車 [ n ]」列（`bc-yama-header.css` 一條 `.bc-yama .header-bot{display:none!important}`，markup/JS 保留可逆；黃圓 `tax-nav` 位置不受影響）；② 浮動購物車全站改貼 `.bc-attract-buy` **正上方、中心線對齊、直徑同按鈕寬**（`bc-components.css` 改純圖示＋`bc-slideout-cart.js` 新增 `_placeFloatingCart()` 量測可見長條後寫 CSS 變數 `--bc-fc-*`；right 基準用 `clientWidth` 修正捲軸寬偏差＋量測後自我修正一次；z-index 提到 **100000** 以免被 Buy 按鈕的 `.c-attract` 熱區 `<a>` 蓋住）；③ 只顯示購物袋圖示（無圓形底／無邊框／無陰影），尺寸 **桌機 37／平板 34／手機 31px**（另設 44px 透明點擊區下限；2026-09-21 使用者追加「圖示縮小一點」）；**同日追加 ②（使用者三項，2026-09-21）**：空車也**常駐顯示圖示、只隱藏數字圓圈**（`base.html` 移除 wrapper 的 `display:none` ＋ JS `_showFloatingCart`/`_updateFloatingCartVisibility` 不再空車早退、`_updateBadge` 控制浮動鈕 badge display）＋ 圖示**再縮**（第三次指示 **−15% → 37／34／31px**）＋ 與 `.bc-attract-buy` **增加間距**（新變數 `--bc-fc-gap`：**0 → 12px → 20px**，JS 定位與首頁 `place()` 共用），圖示 5 選項＝`shopping_bag`（目前）／`local_mall`／`shopping_basket`／`work`／`backpack`，預覽頁 `static/preview/bc-floating-cart-icons.html`；⚠ 首頁亦維持正上方 → `index.html` 的 `place()` 同日追加讓位（`buyTop = anchor + max(44, --bc-fc-size) + --attract + hB/2`，改讓「購物袋 top」對齊 navbar-brand 頂邊；首頁堆疊＝購物袋→Order→個人圓鈕）；⚠ Material Symbols `tote`／`grocery` 在本專案字型變體不存在（會退回文字）故不採用；驗證 `docs/verify/cdp_verify_floating_cart.py`（5 斷點 × 4 頁，含缺字偵測）**全部通過**＋CDP 截圖目視；版號 bc-components.css／bc-slideout-cart.js／bc-yama-header.css **?v=20260921f****同日追加（使用者第七項：新增「第二主題色」＋套用三處＋yama 圓球改色）**——① **新增 CSS 變數**：`static/css/bc-components.css` 的 `:root` 新增 `--bc-theme2-rgb: 226 252 7` 與 `--bc-theme2: rgb(226 252 7)`（＝#E2FC07，單一定義、bc-components.css 全站載入；需透明度時用 `rgb(var(--bc-theme2-rgb) / α)`）。② **hero_nav 正常狀態圓點**：`bc-gunte-hero.css` 的 `.hero_nav > li > button::before` 背景 `#c49b63` → `var(--bc-theme2)`（選取中 / hover / active 的白色與寬度 32px 維持不動）。③ **浮動購物車數字圓圈**：`bc-components.css` 的 `.bc-floating-cart-badge` 背景 `var(--bc-gold)` → `var(--bc-theme2)`，**文字 `#fff` → `var(--bc-bg)`（#0e0e0e 深色；亮底配深字才可讀）**。④ **yama 圓球（使用者回答選「圓球底色改主題色」）**：`bc-yama-header.css` 的 `--bc-yama-circle` `#131211` → `var(--bc-theme2)`；主行文字（按照之前口味落單?／登入補充咖啡因!）`#ba833a` → **`#fff` 白**；積分 `-5`（`.bc-yama-discount`）`var(--bc-gold)` → **`var(--bc-theme2)`**。版號 bc-components.css **?v=20260921l**、bc-gunte-hero.css **?v=20260921a**、bc-yama-header.css **?v=20260921d**。CDP 實測 1440：hero_nav 7 顆圓點＝6 顆正常 `rgb(226,252,7)`＋選取中白 32px；badge 背景 `rgb(226,252,7)`、文字 `rgb(14,14,14)`；yama 圓球底 `rgb(226,252,7)`、主行白、`.bc-yama-discount` `rgb(226,252,7)`（截圖 /tmp/yama-lime-login.png、/tmp/theme2-navdots.png、/tmp/theme2-badge.png）。⚠ **待使用者定案的可讀性衝突**：圓球改亮色後，球內白字（1.16:1）、`#bfbfbf` tagline、白色杯子裝飾在 `rgb(226,252,7)` 上對比嚴重不足，且 `-5`（主題色）與球底同色而完全不可見（深色字 #0e0e0e 對比 16.69:1）→ 建議球內文字／裝飾改深色，或球底維持深色、只把點綴改主題色。**同日追加（使用者第八項：「桌面端 bc-attract-buy、個人 profile、浮動購物車 3 組一起稍微向上移動」）**——把原本只給手機/平板的 8px 上移**擴及桌面**：`static/css/bc-attract.css` 的 `.bc-attract-nav` 的 `--bc-attract-lift` **`0px` → `8px`（全斷點同值）**，原 `@media (max-width:991.98px){--bc-attract-lift:8px}` 已同值故移除（單一來源＝一行；日後要再調高度只改這行）。機制不變：`bc-attract-place.js` 的 `lift()` 讀同一變數、`anchorTop()` 最後扣除 → Order 長條／個人圓鈕同步平移；`bc-slideout-cart.js` 的浮動購物車以「可見長條 top − 佔位 − `--bc-fc-gap`」推導 → 自動跟著上移；三者相對間距（購物車↔長條 20px、長條↔圓鈕 12px）完全不變。無 JS 的退化 `--bc-fc-top`（50% 置中幾何）與桌面 0 值無關，未動。CDP 實測：1440／1024 `lift` 0→**8px**、`fc.top` 56→**48**、`bar.top` 120→**112**、`prof.top` 306→**298**（index／coffee4／bean1／coffee_menu 頁間完全一致）；`/about/` 桌面仍受 weather 下限保護（1440 → **118 不變**，未被上移吃掉）；768／390／320（原本就 8px）**數值完全不變**（24／19）；未遮 navbar-brand（`overlaps_brand=false`）、無橫向溢出（doc_x 1425 < 1440）、`fc.top=48 ≥ 8` 未裁切。harness `docs/verify/cdp_verify_floating_cart.py`（期望值動態讀 `--bc-attract-lift`）**25/25 全部通過**；截圖 /tmp/desktop-lift.png（1440 右上角整組）。版號 bc-attract.css **?v=20260921f**、bc-attract-place.js **?v=20260921d**（後者僅註解同步，行為未動）。；上次：**咖啡豆自訂選項組（BeanItem 選項組）**——BeanItem 的「產地＋研磨」納入與咖啡**同一套**選項組機制（Admin 勾選啟用＋排序數字、詳情頁依排序渲染、extra_options→購物車/訂單/員工端）；**使用者定案「產地不是讓客人選」**：產地＝唯讀顯示（沿用原有 block-23 排版、不新增 UI、不送值）、研磨＝客人可選（沿用既有 `grinding_level` 欄位，舊訂單零相容成本）、烘焙度退出選項組；migration **0071**（schema）＋**0072**（產地自由文字→代碼）＋**0073**（移除未用欄位）；驗證 `docs/verify/verify_bean_group_order.py` **50/50**；修正 Django `{# #}` 不能跨行）
 > **注意**: 完整變更日誌 → `docs/archive/04_SYSTEM_STATE_history_202607-202609.md`；逐筆細目 → `git log`。
 
 
@@ -34,6 +34,8 @@
 | 管理 | psql / pgAdmin | Supabase Dashboard |
 
 ## 近期變更（最近 10 筆標題；細節見封存檔與 git log）
+
+- 2026-09-29 **咖啡商品圖全面換新（使用者指示）：詳情頁 `*_detail.png` × 8 ＋ 首頁 hero 手套圓圈 `*_index.png`（依指定排序，7 格）；data migration **0077**）**：新圖由使用者放入 `~/Downloads/newimg/`（8 detail ＋ 7 index；`*_detail.png` 860×1100、`*_index.png` 840×1200，與既有同類圖同規格），已就位於 `media/coffee_images/` 扁平命名（`<name>_detail.png` / `<name>_index.png`，與舊的 `coffee_images/index/` v2/v4 圖並存；**舊檔一律保留** → 既有訂單 `items` JSON 不 404）。① **詳情頁**：`templates/betweencoffee_delivery/coffee.html:46` 用 `{{ coffee.get_detail_image }}`（內部讀 `CoffeeItem.image`）→ 8 筆全換：#1 `wakemeup`／#2 `sunshine`／#3 `flatwhite`／#4 `blackblend`／#7 `nicestep`／#8 `matchamix`（抹茉）／#9 `friuty`（果香浅煎）／#10 `butterking` 的 `_detail.png`。② **首頁 hero 圓圈**：`betweencoffee_delivery/views.py` 的 `hero_coffees`＝`is_published=True` 依 `sort_order, id` 取前 7 → `index.html` 的 `.hero_hand_item` 0~6 用 `CoffeeItem.get_index_image()`（讀 `image_index` 欄位，非模板硬編碼）→ 使用者指定順序 **Black Blend(#4) → Butter King(#10) → 果香浅煎(#9) → 抹茉(#8) → Flat White(#3) → Sunshine(#2) → WakeMeUp(#1)** 與現行 `sort_order` 1~7 **完全一致** → **只換圖、不動 `sort_order`**。③ **缺口（待補）**：`butterking_index.png` 使用者未提供（`newimg/` 與全專案皆無）→ #10 `image_index` 維持空字串，`get_index_image()` 自動 fallback 到剛更新的 `image`＝`butterking_detail.png`（新版畫風、比例 860×1100 略異於 840×1200）；migration docstring 已留 `TODO_INDEX` 待補檔後另開一支 migration。另 `nicestep_index.png` 雖有提供但不在使用者 7 項清單（#7 Nice Step 為 `sort_order` 8、不在首頁 7 格）→ **未動 #7 的 `image_index`**（首頁下方商品牆／咖啡菜單卡片目前 fallback 到 `nicestep_detail.png`）。④ 實作：`eshop/migrations/0077_coffee_detail_images_and_hero_index_images.py`（`DETAIL_TARGETS` 8 筆 ＋ `INDEX_TARGETS` 6 筆；`(pk, name)` 優先、`name` 後備；可重入；已被人為改成其他圖則不覆寫；`RunPython` 附反向函式可回滾；部署時自動套用）。⑤ 驗證：`python3 manage.py migrate eshop` → **0077 OK**；DB 複查（MCP）8 筆 `image`／6 筆 `image_index` 全數符合；`/` HTTP 200 且 `.hero_hand_item` 7 張實測依序 `blackblend_index` → `butterking_detail`（fallback）→ `friuty_index` → `matchamix_index` → `flatwhite_index` → `sunshine_index` → `wakemeup_index`、`naturalWidth` 6 張 840×1200 ＋ 1 張 860×1100、**全頁 0 破圖**；`/coffee/1|2|3|4|7|8|9|10/` 主圖（`img.img-4`）逐頁對應 `*_detail.png`（860×1100）；15 個媒體檔 HTTP 200（唯 `butterking_index.png` 404＝未提供，符合預期）；**未動任何模板／CSS／JS（純資料變更）** → 無需 bump 靜態檔版號。
 
 - 2026-09-25 **首頁 yama 圓球外圈新增「ORDER NOW」旋轉文字環（使用者指示：外圈、留間距、白色文字；純前端、無 migration）**：`templates/betweencoffee_delivery/index.html` 於 `.bc-yama .tax-nav` 內（**必須在 `.tax-nav` 內且為 `a` 的 sibling**——`a` 有 `overflow:hidden` 會裁掉超出圓球的部分）新增 `<svg class="bc-yama-ring" viewBox="-33 -33 240 240" aria-hidden="true">`＋`<path id="bc-yama-ring-path">`（`M87 87m-97 0a97 97 0 1 1 194 0a97 97 0 1 1 -194 0`）＋`<textPath textLength="609.5" lengthAdjust="spacing">`（609.5＝2π×97；內含 **7 組** ORDER NOW 精準繞滿一圈、接縫均勻）；`static/css/bc-yama-header.css` 檔尾新增 `.bc-yama .tax-nav .bc-yama-ring`（`position:absolute`＋`left/top:-19%`＋`width/height:138%`、`z-index:4`（高於球 1 與白 deco 3 → 圓頂弧不被裝飾吃掉）、`pointer-events:none`、`animation: bc-yama-ring-spin 24s linear infinite`、`transform-origin:50% 50%`、`filter: drop-shadow(0 0 2px rgba(0,0,0,.55)) drop-shadow(0 1px 3px rgba(0,0,0,.35))`（白字在亮底色（首屏 hero／bc-search）的可讀性柔邊，**刪掉這行即回純白**））＋`text{fill:#ffffff; font-size:11px; font-weight:500; letter-spacing:.04em}`＋`@keyframes bc-yama-ring-spin`＋`@media (prefers-reduced-motion:reduce){animation-play-state:paused}`（沿用 `bc-rotate-mau.css` 慣例）。⚠ **踩雷**：SVG 是 replaced element，**只寫 `inset:-19%` 不會被撐開**（實測退回預設 300×300、環半徑 122px）→ 必須明確 `left/top + width/height`。實測（Chrome、dpr1、`?v=20260925a`）：**1440** 球 173.98px → 環框 **240.09px（恰 1.3800×）**、路徑半徑 **97.04px**（設計 97）、與球邊**淨空 7.84px**（設計 7.8）、同心誤差 **0.01px**、環框右／下各留 22.9／56.9px 不裁切、`elementFromPoint` 球心仍在 `<a>` 內（**不擋點擊**）、transform 矩陣 2.5s 內確實變化（24s/圈）；**390** 球 96px → 環框 132.45px、半徑 53.53px、淨空 4.33px、文字外緣僅超出視窗 **0.12px**（次像素、無可見裁切）、`documentElement.scrollWidth=390`（**無水平溢出**）；PIL 逐像素檢驗（1440）：環帶 103～116px 排除頂部白 deco 扇區後每 30° 亮點 20～39、**零值扇區 0**（⇒ 全方向都有字）、球體 60～86px 帶 0 白點（球體未受影響）；原靜態灰框 `a:before`（161px）在球內 → 與文字環不衝突；`aria-hidden` 純裝飾（語意仍由圓球 `<a>` 提供），**未動任何 JS／後端**。**同日修正（使用者回報「中心有個黑色圓形」）**：`<path>` 未設 fill → 沿用 SVG 預設 `fill:black`，整條圓形路徑被當成實心圓盤塗黑（半徑 97 > 球半徑 87，且 z-index 4 蓋在球 1 之上 → 整顆 174px 黃球被蓋住）→ markup 補 `fill="none"` 屬性 ＋ CSS 補 `.bc-yama .tax-nav .bc-yama-ring path{fill:none}` 防呆；`bc-yama-header.css ?v=20260925a → 20260925b`。**教訓**：先前驗證只量幾何、點擊與「球內有無白點」，**沒檢查球體實際渲染顏色** → 疊在上層的 SVG 黑盤逃過檢查；修正後以截圖逐像素複驗：圓心 `(252,255,75)`（＝#FCFF4B）、球內 0~80px 純黑像素 **0/20081**、黃色 82.3%、球外 88~96px 純黑 **0/4608**、環帶白字亮度>90 共 1831 點且每 30° 扇區皆 >0（零值扇區 0）。**同日第二輪（使用者指示：文字環改到 `.bc-yama-deco-photo` 下方——原本文字環會壓在圓頂白色裝飾／上次訂單照片上造成重疊）**：`.bc-yama .tax-nav .bc-yama-ring` 的 `z-index: 4 → 2`（堆疊＝`.bc-yama-deco`／`-photo` 3 > 文字環 2 > 圓球 `a` 1；z-index 只在 `.tax-nav` 這個堆疊脈絡內生效，故必須調文字環自身的值）；版號 `?v=20260925b → 20260925c`。驗證（1440，兩法）：① DOM hit-test（暫時把環設 `pointer-events:bounding-box`、deco 設 `auto`，取圓球正上方 15／30px ＝ deco 突出處）→ 修正前命中 `textPath`、修正後命中 `SPAN.bc-yama-deco`；② 像素 A/B（把文字暫染紅 ＋ 固定角度，同頁切 z-index 2／4 各拍一張）→ 上緣帶（y 611~637）z2 紅字 238px vs z4 284px（**被 deco 遮掉 46px**）、差異 573px 全集中在 deco 形狀內（x 1267~1340）、對照下緣帶（無 deco）差異 **0px**（證明兩張除 z-index 外完全相同）。
 - 2026-09-24 **首頁商品圖更名（使用者指示）：`black_blend_4.png` → `black_blend_v4.png`、`coffee_07_1_ywGMC7S.png` → `friuty.png`、`shunshine_kFPsy3b.png` → `sunshine.png`（只改首頁 index 圖；data migration **0074**）**：三者皆屬 `CoffeeItem.image_index`（首頁專用 840×1200 圖）——#4 Black Blend `black_blend_4`→`black_blend_v4`（新圖）、#2 Sunshine `shunshine_kFPsy3b`→`sunshine`（與原圖 **md5 相同**，僅更名）、#9 果香浅煎原 `image_index` 留空（首頁 fallback 用 `image` 的 `coffee_07_1_ywGMC7S.png`，860×1100 詳情圖）→ 補上 `friuty.png`（新圖）。實作：新檔由使用者放入 `static/images/`，但 `ImageField.url` 一律走 `MEDIA_URL` → 同步複製 `black_blend_v4.png`／`friuty.png`／`sunshine.png` 至 `media/coffee_images/index/`（media 受 git 追蹤 → 部署一併帶上）；`eshop/migrations/0074_update_coffee_index_images.py`（比對 `(pk, name)`、找不到退回 `name`、可重入、已被人為改圖則不覆寫；部署時自動套用）。**`image`（詳情頁／訂單快照）刻意不動** → 舊檔保留，既有訂單 `items` JSON 不會 404；`coffee/2|4|9` 詳情頁照片維持原樣。驗證：首頁 hero 圓圈 7 張圖實測新圖 `black_blend_v4.png`／`friuty.png`／`sunshine.png` 皆 840×1200、`/media/...` HTTP 200、**0 破圖**（hero 其餘 wakemeup_v2_2／flat_white_4／coffee_09／coffee_06_1 不變）。※ 使用者 2026-09-24 確認：登入後 bc-yama 圓球內「上次訂單」照片本就取自商品 `image` 欄位（如 coffee_xx.png）＝**正確設計**、非首頁圖（`image_index`），不需改動。

diff --git a/betweencoffee_memory_bank/05_PRIORITY_TASKS.md b/betweencoffee_memory_bank/05_PRIORITY_TASKS.md
@@ -1,10 +1,12 @@
 # 05_PRIORITY_TASKS
 
-> **最後更新**: 2026-09-25
+> **最後更新**: 2026-09-29
 
-> ⚠ **待部署**：本批改動（**咖啡詳情頁圖修正（migration 0076）**／**隱藏 Order 長條圖示**／**Sunshine 首頁圖 v2（migration 0075）**／**首頁商品圖更名（migration 0074）**／**第一主題色還原為品牌金 `#c49b63`（2026-09-23 換色後當日 revert）**／**yama 圓球亮球可讀性**／**浮動購物車初始跳動修正**／**浮動購物車改版（純前端）**／**咖啡豆自訂選項組**／氣泡 6 落點／退場動畫／Admin 精簡／留白與照片尺寸／GUNTE hero 平板尺寸修正）尚未上正式站 —— Render `autoDeploy=no`，需在 dashboard 按 **Manual Deploy**（部署時自動套用 migration **0070、0071、0072、0073、0074、0075、0076**），或提供 `RENDER_API_KEY` 以 API 觸發。
+> ⚠ **待部署**：本批改動（**咖啡商品圖全面換新（migration 0077）**／**咖啡詳情頁圖修正（migration 0076）**／**隱藏 Order 長條圖示**／**Sunshine 首頁圖 v2（migration 0075）**／**首頁商品圖更名（migration 0074）**／**第一主題色還原為品牌金 `#c49b63`（2026-09-23 換色後當日 revert）**／**yama 圓球亮球可讀性**／**浮動購物車初始跳動修正**／**浮動購物車改版（純前端）**／**咖啡豆自訂選項組**／氣泡 6 落點／退場動畫／Admin 精簡／留白與照片尺寸／GUNTE hero 平板尺寸修正）尚未上正式站 —— Render `autoDeploy=no`，需在 dashboard 按 **Manual Deploy**（部署時自動套用 migration **0070、0071、0072、0073、0074、0075、0076**），或提供 `RENDER_API_KEY` 以 API 觸發。
 
 ## 近期優先
+- **咖啡商品圖全面換新：詳情頁 `*_detail.png` × 8 ＋ 首頁 hero 圓圈 `*_index.png`（✅ 完成 2026-09-29，純資料、data migration 0077）**：使用者兩項指示 → ① 詳情頁（`coffee.html`，依商品 id）改用新圖 `*_detail.png`；② 首頁 index 的 7 張商品圖依指定排序改用 `*_index.png`。新圖來源 `~/Downloads/newimg/`（8 detail＝860×1100、7 index＝840×1200，皆與既有同類圖同規格），檔名沿用使用者放置位置＝`media/coffee_images/` **扁平命名**（`<name>_detail.png` / `<name>_index.png`，與舊的 `coffee_images/index/` v2/v4 圖並存）。**機制（重要）**：首頁 hero 圖**不是模板硬編碼**——`betweencoffee_delivery/views.py` 的 `hero_coffees`＝`is_published=True` 依 `sort_order, id` 取前 7 → `index.html` 的 `.hero_hand_item` 0~6 用 `CoffeeItem.get_index_image()`（讀 DB `image_index` 欄位）；詳情頁 `coffee.html:46` 用 `{{ coffee.get_detail_image }}`（讀 DB `image` 欄位）→ **兩者皆 DB 驅動 ⇒ 只需換資料、不動模板**。① `image` 8 筆：#1 wakemeup／#2 sunshine／#3 flatwhite／#4 blackblend／#7 nicestep／#8 matchamix（抹茉）／#9 friuty（果香浅煎）／#10 butterking 的 `_detail.png`。② `image_index` 6 筆：使用者指定順序 **Black Blend(#4) → Butter King(#10) → 果香浅煎(#9) → 抹茉(#8) → Flat White(#3) → Sunshine(#2) → WakeMeUp(#1)** 與現行 `sort_order` 1~7 **完全一致** → **不動 sort_order、只換圖**。⚠ **兩處刻意未動（已向使用者回報）**：(a) `butterking_index.png` 使用者未提供（`newimg/` 與全專案皆無）→ #10 `image_index` 維持空 → `get_index_image()` 自動 fallback 到剛更新的 `image`＝`butterking_detail.png`（新版畫風、比例 860×1100 略異於 840×1200），migration docstring 已留 `TODO_INDEX` 待補檔後一支 migration；(b) `nicestep_index.png` 雖有提供但不在使用者 7 項清單（#7 Nice Step 為 `sort_order` 8、不在首頁 7 格）→ 未設定其 `image_index`（首頁下方商品牆／咖啡菜單卡片暫以 `nicestep_detail.png` 顯示）。實作 `eshop/migrations/0077_coffee_detail_images_and_hero_index_images.py`（`DETAIL_TARGETS` 8 筆 ＋ `INDEX_TARGETS` 6 筆；`(pk, name)` 優先、`name` 後備；可重入；已被人為改成其他圖則不覆寫；附反向函式可回滾）。驗證：`python3 manage.py migrate eshop` → 0077 OK；DB 複查（MCP）全數符合；`/` HTTP 200 且 `.hero_hand_item` 7 張依序＝`blackblend_index` → `butterking_detail`(fallback) → `friuty_index` → `matchamix_index` → `flatwhite_index` → `sunshine_index` → `wakemeup_index`、`naturalWidth` 6 張 840×1200 ＋ 1 張 860×1100、**全頁 0 破圖**；`/coffee/1|2|3|4|7|8|9|10/` 主圖（`img.img-4`）逐頁對應 `*_detail.png`；15 個媒體檔 HTTP 200（唯 `butterking_index.png` 404＝未提供，符合預期）。舊檔一律保留（既有訂單 `items` JSON 不 404）；**未動任何模板／CSS／JS → 無需 bump 靜態檔版號**。
+
 - **首頁 yama 圓球外圈「ORDER NOW」旋轉文字環（✅ 完成 2026-09-25，純前端、無 migration）**：使用者指示「圓球外圈、留間距、白色文字」→ ① `index.html` 於 `.bc-yama .tax-nav` 內（`a` 的 sibling，避免被 `a` 的 `overflow:hidden` 裁掉）新增 `<svg class="bc-yama-ring" viewBox="-33 -33 240 240" aria-hidden="true">`＋圓形 `<path>`＋`<textPath textLength="609.5" lengthAdjust="spacing">`（7 組 ORDER NOW；609.5＝2π×97）；② `bc-yama-header.css` 檔尾新增 `.bc-yama-ring`（`left/top:-19%`＋`width/height:138%`、`z-index:4`、`pointer-events:none`、**24s linear 無限自轉**、白字 11px、雙層 drop-shadow 柔邊（可刪）、`prefers-reduced-motion` 暫停）。⚠ **SVG 是 replaced element：只寫 `inset` 不會被撐開**（退回預設 300×300）→ 需明確 width/height。實測 1440：環框 240.09px（＝1.3800× 球）、路徑半徑 97.04px、與球淨空 7.84px、同心誤差 0.01px、不裁切、不擋圓球點擊；390：環框 132.45px、淨空 4.33px、無水平溢出；PIL 檢驗環帶全方向皆有字（排除頂部白 deco 後每 30° 亮點 20～39、零值 0）。版號 `bc-yama-header.css ?v=20260925a`（`index.html` 引用的 stylesheet 已同步）。**同日修正（使用者回報「中心有個黑色圓形」）**：`<path>` 未設 fill → 沿用 SVG 預設黑 → 路徑被塗成半徑 97 的實心黑圓盤（蓋住 174px 黃球）→ markup 補 `fill="none"` ＋ CSS `.bc-yama .tax-nav .bc-yama-ring path{fill:none}` 防呆，版號 → **`?v=20260925b`**；截圖逐像素複驗：圓心 `(252,255,75)`、球內純黑 **0/20081** 像素、球外 88~96px 純黑 **0/4608**、環帶白字全方向皆 >0。**同日第二輪（使用者指示）**：文字環改到 `.bc-yama-deco-photo` 下方 → `.bc-yama-ring` 的 `z-index: 4 → 2`（deco/-photo 3 > 環 2 > 圓球 1），版號 → `?v=20260925c`；驗證：DOM hit-test 修正前 `textPath` → 修正後 `SPAN.bc-yama-deco`；像素 A/B 上緣帶（deco 處）紅字 238px vs 284px（遮掉 46px）、差異全在 deco 形狀內、對照下緣帶差異 0px。
 - **詳情頁「立即購買／加入購物車」位置互換（✅ 完成 2026-09-25，純模板、無 migration）**：`coffee.html`／`bean.html` 的 `.bc-product-action-row` 兩顆按鈕順序對調 → **加入購物車在左、立即購買在右**；CSS／JS 未動（無順序依賴、JS 用 `#buy-now-btn`）。驗證 1440／390：x=768/1018、39/202，尺寸 234×60、149×36 與換前相同。
 - **咖啡詳情頁圖修正：Flat White／Black Blend（✅ 完成 2026-09-25，data migration 0076）**：使用者回報「詳情頁顯示了首頁的圖片（`/coffee/3/`、`/coffee/4/`）參考 `/coffee/2/`」→ 像素比對確認這兩款的 `image` 檔案與首頁圖是**同一張畫**（差 4.9／5.3；#2 為 101）→ 改為同設計的**滿版**舊站照片：`coffee_images/coffee_03_1.png`（#3，紅杯紫底）、`coffee_images/coffee_02_1.png`（#4，黑杯），皆 860×1100（與 #2 同格式）。`image_index` 不動、舊檔保留；氣泡文字為空故氣泡定位不受影響。驗證：三頁照片框 516×458／圖 358×458、兩張新圖 HTTP 200、首頁 index 圖不變。
